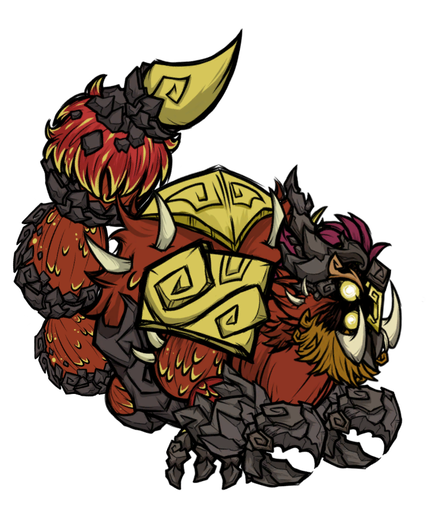
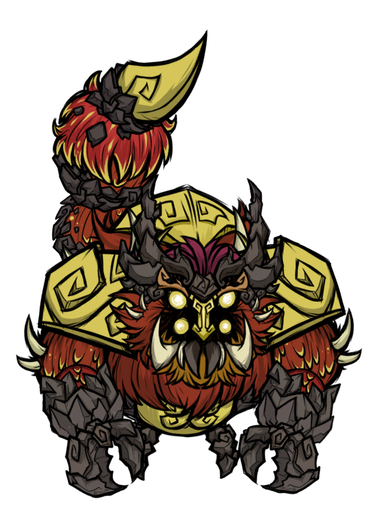
内容/图片：妖蝠与暗影血蝠改用正面朝向；蝎龙也改回正面（串图修好后正面正常）
用户反馈
- 暗影血蝠、妖蝠的展示图弄错了
- 以后尽量用正面的朝向

改动
- 妖蝠、暗影血蝠：fly_loop_side（侧面）-> fly_loop_down（正面）
- 炽岩蝎龙：idle_loop_side -> idle_loop_downside（正面）
  之前是串图导致正面看不见头，指定 builds 之后正面完全正常
- 其余生物本来就是正面（月狮/毒蝎幼虫兜底到 idle_down，噬魂蛇 idle_loop_down）
- 全量重导后逐张比对：只有这 3 张变化，其余 77 张完全一致

工具/文档
- 新增 tools/run_dst_app.ps1：跑 dst-app 的封装（强制断网 + 跑完清常驻进程 +
  解析 JSON 报告），避免每次手写环境变量与收尾，也不需要临时脚本
- images/lingjie/showcase/README.md：导出命令改用新工具；新增「朝向：生物一律取正面」
  一节；已知特例表里修正蝎龙与蝙蝠的条目
- 注释.md：tools 表补上三个导出相关脚本

校验：validate_content.py 没有错误；verify_site.js 没有失败项

diff --git a/tools/extract_mod_showcase.py b/tools/extract_mod_showcase.py
@@ -77,12 +77,14 @@ BANK_ALIAS = {
     "lj_red_magic_dug_flower": "lj_red_magic_flower",
 }
 ANIM_OVERRIDE = {
-    "lj_chiyan_scorpion_dragon": "idle_loop_side",
+    # 生物一律优先取**正面**朝向（-downside / -down），看着最完整；
+    # 注意：蝎龙之前用 downside 时头看不见，那是跨包串图造成的，指定 builds 之后正面就正常了。
+    "lj_chiyan_scorpion_dragon": "idle_loop_downside",
     "lj_crystalcrown": "anim",
     "lj_cuiju_box": "closed",
     "lj_huangjie_box": "closed",
-    "lj_blood_bat": "fly_loop_side",
-    "lj_demon_bat": "fly_loop_side",
+    "lj_blood_bat": "fly_loop_down",
+    "lj_demon_bat": "fly_loop_down",
     "lj_reiki_dug_grass": "dug",
     "lj_red_magic_dug_flower": "dug",
 }

diff --git a/images/lingjie/showcase/README.md b/images/lingjie/showcase/README.md
@@ -26,20 +26,22 @@
 python tools/extract_mod_showcase.py <mod目录或zip>
 
 # ② 先看配对结果（不写文件）：选了哪个动画、查出哪些幽灵符号
-"<dst-app路径>" script --bypass --file .work/batch_dryrun.lua
+pwsh -File tools/run_dst_app.ps1 -LuaFile .work/batch_dryrun.lua
 
 # ③ 正式导出到本目录，文件名 = 物品预制体 id
-"<dst-app路径>" script --bypass --file .work/batch_export.lua
+pwsh -File tools/run_dst_app.ps1 -LuaFile .work/batch_export.lua
 ```
 
 导出参数：`max_dimension = 512`（最长边不超过 512 像素，保持透明背景）。
 
-> ⚠ **跑完记得检查残留进程。** `dst-app script` 打完一行 JSON 后**不会自己退出**，
-> 它的常驻主实例还会继续活着（并会重建 `.work/` 里的输出文件）。收尾用：
->
-> ```powershell
-> Get-Process dst-app -ErrorAction SilentlyContinue | Stop-Process -Force
-> ```
+`tools/run_dst_app.ps1` 是给 dst-app 包的一层壳，帮你处理两件事：
+
+- **断网**：把更新清单和代理全指到 9 号 discard 端口，脚本发不出任何外部请求
+- **收尾**：`dst-app script` 打完 JSON 报告**不会自己退出**，常驻实例还会保留文档、
+  下次运行带着上次导入的资源（串图的元凶）。脚本跑完统一 `Stop-Process`
+- 顺便把报告里的 `print` 输出解析出来，省得自己 parse JSON
+
+它默认 `-DstApp C:\Users\huan\Downloads\dst-app.exe`，换机器用 `-DstApp` 指定。
 
 ## 串图（导出踩过的坑）
 
@@ -75,15 +77,30 @@ dry-run 报告里的 `build=` 是判定出的 build，`hide=` 是被隐藏的 La
 > 实例：境界徽章 `realm_value_ui` 与灵力徽章 `spirit_value_ui` 的符号名完全一样，
 > 不清空就连着导两次，两张图会渲染成**一模一样**（详见 `../anim/README.md`）。
 
+## 朝向：生物一律取**正面**
+
+DST 的动画按 8 个方向各有一套（`..._down` / `_side` / `_up`，蝎龙是 `downside` / `side` / `upside`）。
+展示图**优先用正面**（`down` / `downside`），看着最完整：
+
+| 生物 | 用哪套 |
+| --- | --- |
+| 妖蝠 / 暗影血蝠 | `fly_loop_down` |
+| 炽岩蝎龙 | `idle_loop_downside` |
+| 月蚀晶翼狮 / 毒蝎幼虫 | 兜底取到 `idle_down`（正好是正面）|
+| 噬魂蛇 | 兜底取到 `idle_loop_down`（正面）|
+
+> 注意：蝎龙早期版本用正面时**头部看不见**，一度改成侧面。那是跨包串图造成的假象，
+> 指定 `builds` 之后正面完全正常 —— 所以别再用「侧面才看得见」这个理由改回去。
+
 ## 已知特例
 
 | 物品 | 情况 |
 | --- | --- |
 | 17 种丹药 | 共用 `lj_pill` 的 `idle` 动画，靠 **符号覆盖** 区分：导出时带 `override_symbols = { swap_food = "<丹药 id>" }`，对应代码 `lj_pill.lua:142` 的 `OverrideSymbol("swap_food", "lj_pill", name)` |
 | `lj_crystalcrown` | 动画名是 `anim`，不是 `idle` |
-| `lj_chiyan_scorpion_dragon` | 该 bank **没有 `idle`**，只有 `idle_loop_side/upside/downside`；兜底会选到 `downside`（俯视角度，**头部被身体挡住看不见**），必须指定 `idle_loop_side` |
+| `lj_chiyan_scorpion_dragon` | 该 bank **没有 `idle`**，只有 `idle_loop_side/upside/downside`，必须显式指定，否则兜底会挑错朝向 |
 | `lj_cuiju_box` / `lj_huangjie_box` | 没有 `idle`，取 `closed`（关闭状态） |
-| `lj_blood_bat` / `lj_demon_bat` | 飞行生物，没有 `idle`，取 `fly_loop_side` |
+| `lj_blood_bat` / `lj_demon_bat` | 飞行生物，没有 `idle`，取 `fly_loop_down`（正面） |
 | 5 本线索日志 | 借用 `lj_log` 的 bank（同一个模型） |
 | `lj_soul_devouring_snake` | 借用 `lj_three_headed_snake` 的 bank（模型名不同） |
 | `lj_reiki_dug_grass` / `lj_red_magic_dug_flower` | 挖出来的根没有自己的包，借用父本植物 `lj_reiki_grass` / `lj_red_magic_flower` 的 bank，取 `dug`（挖出来那一帧）。**不加这条会回退成 64×64 图标放大，很虚** |

diff --git a/注释.md b/注释.md
@@ -250,6 +250,9 @@ node   tools/verify_site.js         # 用网站真实代码跑一遍，确认前
 | `validate_content.py` | 内容校验（必跑）：JSON 结构、id 重复、分类失配、词条死链、配方图标路径 |
 | `verify_site.js` | 用真实站点代码验证（必跑）：卷目/条目数、词条跳转、配方图标、**详情正文行内图标是否真的渲染出来**、卡片图是否存在 |
 | `build_content.py` | 批量重建 `data.json` 的生成器，内含全部条目文字。**只在需要整体重建时用**；平时改文字直接改 `data.json` |
+| `extract_mod_icons.py` | 从 mod 的图标图集（`.tex` + `.xml`）切出 64×64 图标 |
+| `extract_mod_showcase.py` | 生成导出展示图用的 Lua 脚本（配合下面的 `run_dst_app.ps1`） |
+| `run_dst_app.ps1` | 跑 DST Mod Tool 的壳：**强制断网**、跑完清掉常驻进程、解析它的 JSON 报告 |
 
 ## 九、GitHub Pages 更新
 
